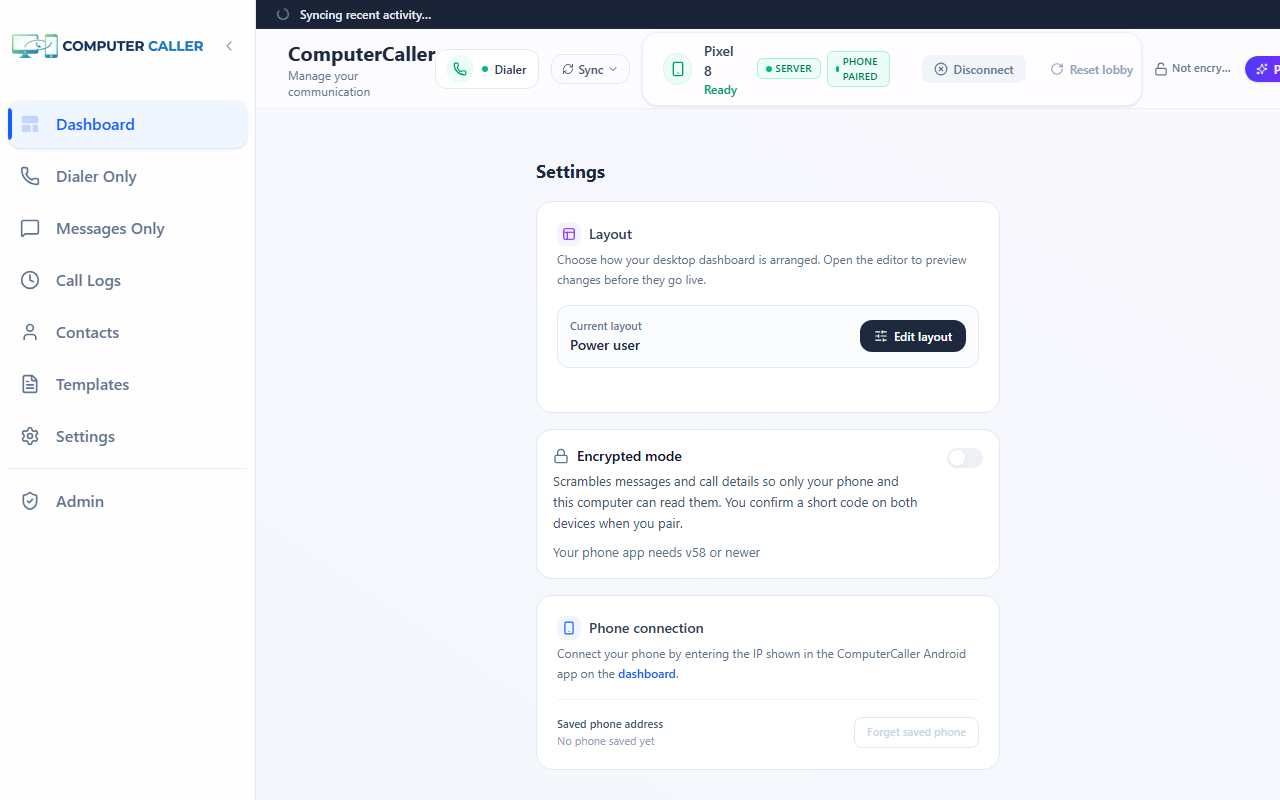
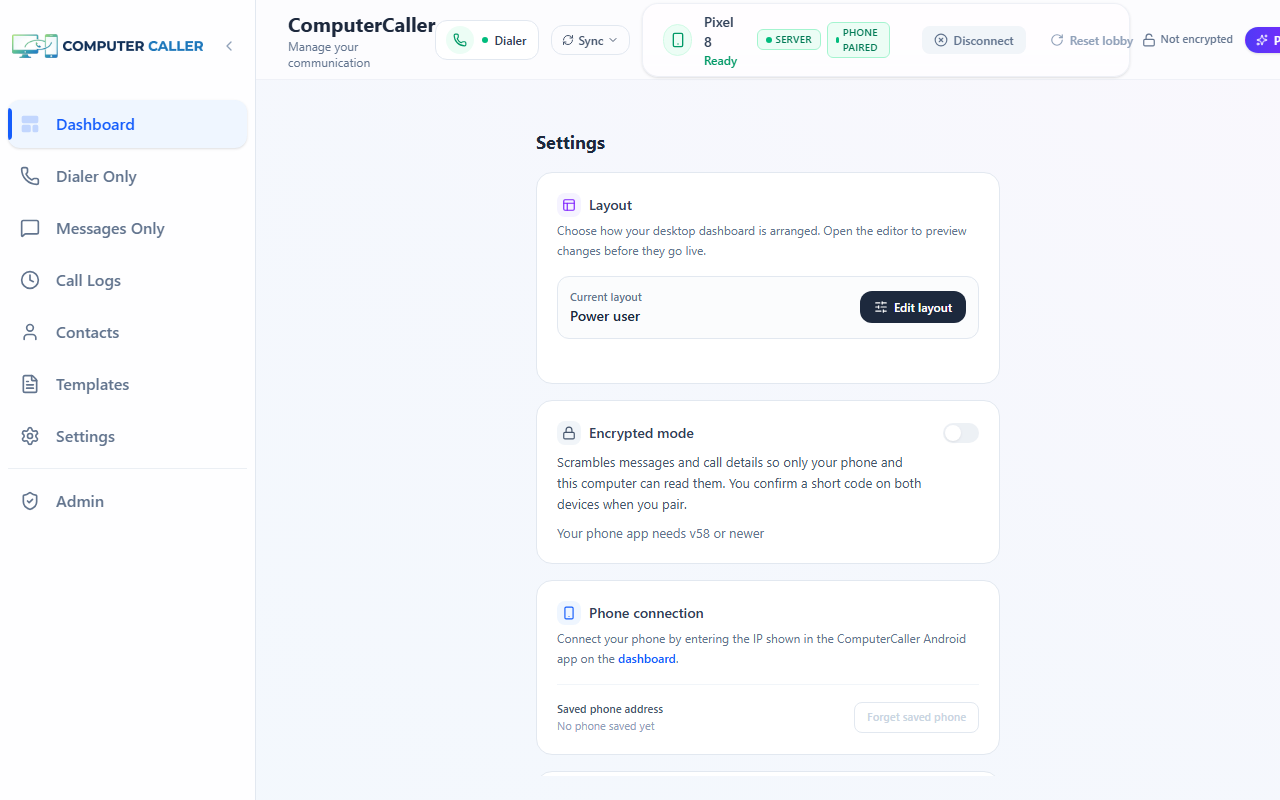
[E2E-P5a] (c2) visual review of my own screenshots: two real defects fixed
Reviewing the harness's own captures rather than trusting that the code was
right, which is the only reason either of these was found.

1. THE HEADER CHIP RENDERED "Not encry…". Inside the header's `min-w-0 flex-1`
   slot the connection pill squeezed the chip until its label truncated. A
   truncated SECURITY label is worse than none: "Not encry…" and "Encrypted"
   look alike at a glance, in the one place the product states whether the
   user's data is protected. Now flex-shrink-0 + whitespace-nowrap. The pill
   beside it already truncates a device NAME, which is the right thing to
   sacrifice first; these two words are not.

2. THE SETTINGS CARD IGNORED THE PAGE'S OWN HEADING IDIOM. Layout and Phone
   connection both lead with a tinted icon disc; mine led with a bare glyph, so
   the Encrypted-mode card read as bolted on next to the rows it sits between.
   Matching it is not decoration — the control that most needs to look native
   to the product is this one. Also p-4 -> p-5 to match the sibling sections.

3. The extension menu's reason text ran to the edge of the 210px popover;
   break-words + a right gutter lets it wrap instead.

Dark theme verified from the capture, not assumed: the account-menu row, its
switch and its reason text all read correctly on the dark ground, which is the
extension.css utility remap doing its job — earned by staying inside the
remapped palette rather than adding a `dark:` variant (a D4 violation).
[…]

diff --git a/components/EncryptedModeToggle.tsx b/components/EncryptedModeToggle.tsx
@@ -107,12 +107,12 @@ export function EncryptedModeToggle({ variant = 'row', email = null }: Encrypted
               <SwitchTrack checked={mode === 'on'} disabled={!availability.enabled} small />
             </span>
             {availability.reason && (
-              <span id={descId} className="mt-0.5 block leading-snug text-slate-500">
+              <span id={descId} className="mt-0.5 block break-words pr-1 leading-snug text-slate-500">
                 {availability.reason}
               </span>
             )}
             {showRepairNotice && (
-              <span id={noticeId} className="mt-0.5 block leading-snug text-slate-500">
+              <span id={noticeId} className="mt-0.5 block break-words pr-1 leading-snug text-slate-500">
                 {SETTING_REPAIR_NOTICE}
               </span>
             )}
@@ -124,18 +124,28 @@ export function EncryptedModeToggle({ variant = 'row', email = null }: Encrypted
 
   return (
     <div
-      className="rounded-2xl border border-slate-200 bg-white p-4"
+      className="rounded-2xl border border-slate-200 bg-white p-5"
       data-cc-e2e-toggle="row"
       data-cc-e2e-enabled={availability.enabled ? 'true' : 'false'}
       data-cc-e2e-reason={availability.reasonKey ?? ''}
     >
       <div className="flex items-start justify-between gap-4">
         <div className="min-w-0">
-          <div className="flex items-center gap-2">
-            <Lock className="h-4 w-4 flex-shrink-0 text-slate-500" aria-hidden="true" />
-            <h3 className="text-sm font-semibold text-slate-900">{SETTING_LABEL}</h3>
-          </div>
-          <p className="mt-1 max-w-[52ch] text-[13px] leading-relaxed text-slate-600">
+          {/* The tinted icon disc is the /app Settings page's own heading idiom
+              — Layout and Phone connection both use it. Matching it is not
+              decoration: a security setting that arrives styled differently
+              from the rows around it reads as bolted on, and the one control
+              that most needs to look native to the product is this one. */}
+          <h3 className="flex items-center gap-2 text-sm font-semibold text-slate-700">
+            <span
+              aria-hidden="true"
+              className="flex h-6 w-6 items-center justify-center rounded-lg bg-slate-100 text-slate-600"
+            >
+              <Lock className="h-3.5 w-3.5" aria-hidden="true" />
+            </span>
+            {SETTING_LABEL}
+          </h3>
+          <p className="mt-1.5 max-w-[52ch] text-[13px] leading-relaxed text-slate-600">
             {SETTING_DESCRIPTION}
           </p>
           {availability.reason && (

diff --git a/components/EncryptionStatus.tsx b/components/EncryptionStatus.tsx
@@ -84,14 +84,20 @@ export function EncryptionChip({ compact = false }: { compact?: boolean }) {
 
   return (
     <span
-      className={`cc-e2e-surface inline-flex min-w-0 items-center gap-1 ${toneInk[indicator.tone]}`}
+      // flex-shrink-0, and it is a fix rather than a default: inside the
+      // header's `min-w-0 flex-1` slot the chip was being squeezed by the
+      // connection pill and rendered as "Not encry…". A truncated security
+      // label is worse than no label — "Not encry…" and "Encrypted" share a
+      // prefix at a glance. The pill beside it already truncates a device NAME,
+      // which is the right thing to sacrifice first; these three words are not.
+      className={`cc-e2e-surface inline-flex flex-shrink-0 items-center gap-1 whitespace-nowrap ${toneInk[indicator.tone]}`}
       data-cc-e2e-chip={indicator.tone}
       data-cc-e2e-label={indicator.label}
       title={indicator.detail}
     >
       <Glyph className="h-3.5 w-3.5 flex-shrink-0" aria-hidden="true" />
       {!compact && (
-        <span className="truncate text-[11px] font-medium">{indicator.label}</span>
+        <span className="text-[11px] font-medium">{indicator.label}</span>
       )}
       <span className="sr-only">{indicator.detail}</span>
     </span>
